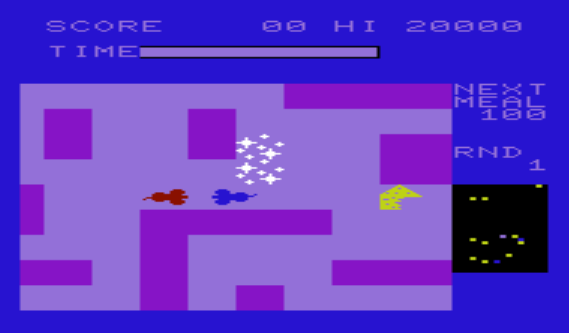
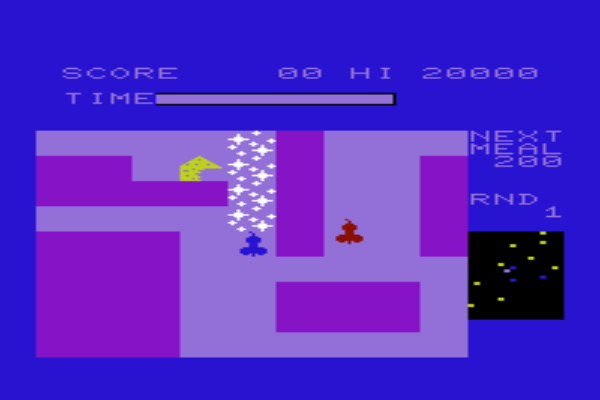
change to via timing + updated screenshots.

diff --git a/src/src/cpu/cpu_6502.ts b/src/src/cpu/cpu_6502.ts
@@ -10,7 +10,7 @@ import CpuDebugInfo from "./cpu_debug_info";
 // ==========
 // Cpu6502.ts
 // ==========
-// 
+//
 // The 6502 has 56 different instructions and 13 addressing modes. There are 151 defined op codes.
 //
 // The 56 instructions are:
@@ -98,7 +98,7 @@ import CpuDebugInfo from "./cpu_debug_info";
 // =============================================================================
 // Addressing Modes (https://www.masswerk.at/6502/6502_instruction_set.html#DEX)
 // =============================================================================
-// 
+//
 // Key   Mode                Example     Description
 // ----- ------------------- ----------- -------------------------------------------------------------
 // A     Accumulator         OPC A       operand is AC (implied single byte instruction)
@@ -114,17 +114,17 @@ import CpuDebugInfo from "./cpu_debug_info";
 // zpg   zeropage            OPC $LL     operand is zeropage address (hi-byte is zero, address = $00LL)
 // zpg,X zeropage, X-indexed OPC $LL,X   operand is zeropage address; effective address is address incremented by X without carry **
 // zpg,Y zeropage, Y-indexed OPC $LL,Y   operand is zeropage address; effective address is address incremented by Y without carry **
-// 
+//
 // *   16-bit address words are little endian, lo(w)-byte first, followed by the hi(gh)-byte.
 // (An assembler will use a human readable, big-endian notation as in $HHLL.)
-// 
+//
 // **  The available 16-bit address space is conceived as consisting of pages of 256 bytes each, with
 // address hi-bytes represententing the page index. An increment with carry may affect the hi-byte
 // and may thus result in a crossing of page boundaries, adding an extra cycle to the execution.
 // Increments without carry do not affect the hi-byte of an address and no page transitions do occur.
 // Generally, increments of 16-bit addresses include a carry, increments of zeropage addresses don't.
 // Notably this is not related in any way to the state of the carry bit of the accumulator.
-// 
+//
 // *** Branch offsets are signed 8-bit values, -128 ... +127, negative offsets in two's complement.
 // Page transitions may occur and add an extra cycle to the exucution.
 // --------------------------------------------------------------------------------------------------------------------------------------------------------
@@ -156,6 +156,7 @@ import CpuDebugInfo from "./cpu_debug_info";
 // http://www.obelisk.me.uk/6502/
 // https://codegolf.stackexchange.com/questions/12844/emulate-a-mos-6502-cpu
 // https://github.com/amensch/e6502
+// https://www.masswerk.at/nowgobang/2021/6502-illegal-opcodes
 //
 // **********************************
 
@@ -341,6 +342,7 @@ export default class cpu6502 extends cpu6502Internal {
       this.lastPc = this.Registers.PC;
 
       let instruction = this.FetchInstruction();
+
       this.currentInstruction = this.opCodes6502[instruction];
 
       if (typeof this.currentInstruction == 'undefined') {
@@ -725,7 +727,9 @@ export default class cpu6502 extends cpu6502Internal {
     new OpCodeGenRule({ opCode: 0xF2, instruction: "JAM", cycles: 2, addressMode: "impl", operation: (cpu, reg) => { throw 'JAM/KIL/HLT encountered!' }, read: false, write: false }),
     new OpCodeGenRule({ opCode: 0xF4, instruction: "NOP", cycles: 4, addressMode: "zpg,X", operation: (cpu, reg) => { }, read: false, write: false }),
     new OpCodeGenRule({ opCode: 0xFA, instruction: "NOP", cycles: 2, addressMode: "impl", operation: (cpu, reg) => { }, read: false, write: false }),
-    new OpCodeGenRule({ opCode: 0xFC, instruction: "NOP", cycles: 4, addressMode: "abs,X", operation: (cpu, reg) => { }, read: false, write: false })
+    new OpCodeGenRule({ opCode: 0xFC, instruction: "NOP", cycles: 4, addressMode: "abs,X", operation: (cpu, reg) => { }, read: false, write: false }),
+    new OpCodeGenRule({ opCode: 0xFC, instruction: "ISC", cycles: 7, addressMode: "abs,X", operation: (cpu, reg) => { let m = cpu.setzn((reg + 1) & 0xFF); cpu.sbc(m); return m; }, read: false, write: false })
+
     /*
         0x03: "SLO X,ind",
         0x07: "SLO zpg",
@@ -792,7 +796,7 @@ export default class cpu6502 extends cpu6502Internal {
         0xF3: "ISB ind,Y",
         0xF7: "ISB zpg,X",
         0xFB: "ISB abs,Y",
-        0xFF: "ISB abs,X"
+        0xFF: "ISC abs,X"
     
         */
   ]

diff --git a/src/src/io/via_6522.ts b/src/src/io/via_6522.ts
@@ -223,8 +223,6 @@ export default class via6522 {
 
         // Trigger T2
         this.T1C--;
-        this.T2C--;
-
 
         if (this.T1C == 0) {
             // Test keyboard
@@ -239,14 +237,17 @@ export default class via6522 {
             if (Utils.ExtractBits(this.ACR, 6, 6) == 1) {
                 this.clearedT1 = true;  // continuous mode
                 this.T1C = this.T1L;
+            } {
+                this.T1C = 0xfffe;
             }
         } else {
             // this.setIfr(6, false);
         }
 
-
+        this.T2C--;
         if (this.T2C == 0) {
             this.setIfr(5, true);
+            this.T2C = 0xfffe;
         }
 
         //this.setCA1Interrupt();

diff --git a/README.md b/README.md
@@ -136,6 +136,7 @@ The following are still being worked on and are not available yet:
 - Sound
 - Cassette / tape loading and saving
 - Unsupported CPU instructions (as used by some games)
+- Fixing up issues with some of the games
 
 ## Screenshots
 
@@ -148,6 +149,8 @@ The following are still being worked on and are not available yet:
 ![radar_rat_race](https://github.com/davidbarone/vic20/blob/main/images/radar_rat_race.png?raw=true)
 
 ![sargon_2_chess](https://github.com/davidbarone/vic20/blob/main/images/sargon_2_chess.png?raw=true)
+
+![manic_miner](https://github.com/davidbarone/vic20/blob/main/images/manic_miner.png?raw=true)
 
 ![boot](https://github.com/davidbarone/vic20/blob/main/images/boot.png?raw=true)
 
